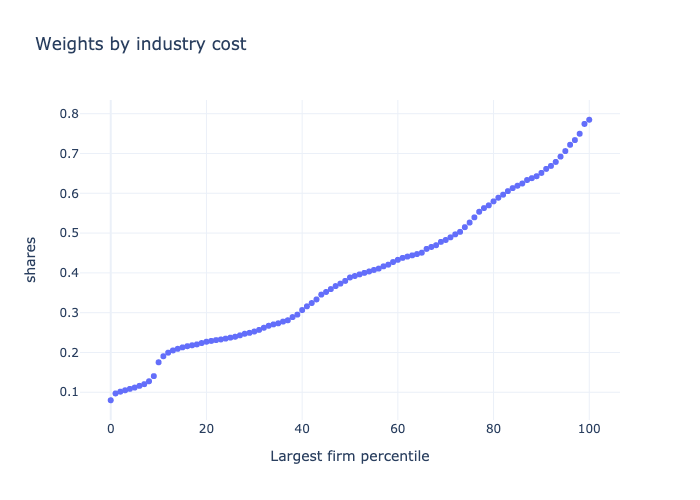
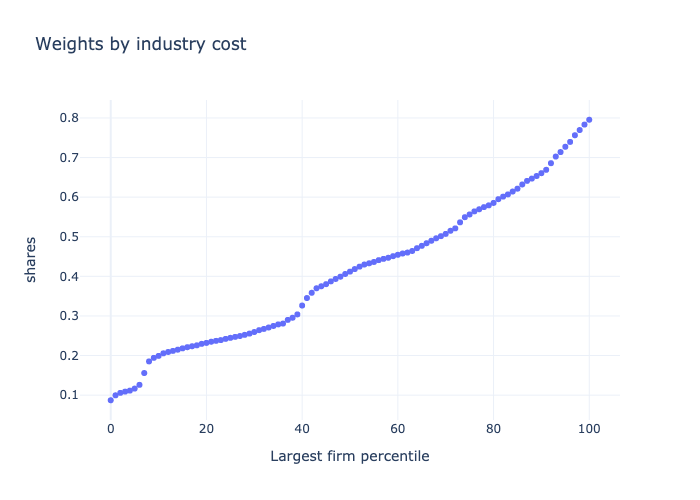
Killer acquisitions implementeed. Delete scrap files.

diff --git a/ps10/killeracq.py b/ps10/killeracq.py
@@ -1,10 +1,8 @@
 # Industry equilibrium with killer acquisitions and not taking w**theta = Y = 1 as given
+# This file assumes there exists an L_supply that can be obtained from np.loadtxt("total_labor.txt"). Running entrygame.py first creates that file. 
 
-# This shouild be merged with entrygame.py (from where Labor supply should come) and industry_eq.py. 
+# TODO: This shouild be merged with industry_eq.py. Functions will need to be more general first. Currently incompatible as industry_eq.py is mostly based on taking W and Y as given whereas this file iterates over W**-theta * Y
 
-# Keep first and last entry from entrydecisions. First is profit for incumbent, last is profit dfor entrant
-# Calucllate expected profits if erntrant enters for icnumbet. This will be comapred to the price
-# Before doing this. IMplement busection seach over pricesd W and Y
 
 import numpy as np
 from scipy.stats import pareto
@@ -12,7 +10,7 @@ from scipy import optimize
 import time
 import scipy as sp
 from prodgrid import gen_prod_grid
-from industry_eq import industry_equilibrium, price_aggregator
+from industry_eq import industry_equilibrium, price_aggregator, get_entry_costs
 from entrygame import find_wage, agg_variables
 import plotly.express as px
 import plotly.io as pio
@@ -20,7 +18,6 @@ pio.templates.default = "plotly_white"
 
 import pandas as pd
 
-import ipdb
 
 def entry_decisions(n, ratio, c_curvature, c_shifter, z_draws, prod_grid, probs, gamma, theta, competition, learning_rate):
 	''' Calculate net benefit to marginal entrant
@@ -103,17 +100,7 @@ def markup_diff(markup_guess, z_draws, gamma, theta, competition):
 
 	return(loss, markups, shares, elas, elas_grad)
 
-def acquire_decision(n, profit_acq, c_curvature, c_shifter, z_draws, prod_grid, probs, W, gamma, theta, Y, competition, learning_rate):
-	''' Find marginal firm that incumbent wants to acquire
-	If the value of acquiring > 0, then acquire this firm and all future entrants. TODO: seems expensive?
-	profit_acq : is the profit of the first incumbent if it chooses to acquire
-	'''
-	# TODO: things have changed in the entry decision function. This will no longer work as intended.
-	price_acq, _, E_profit_entry = entry_decisions(n, ratio, c_curvature, c_shifter, z_draws, prod_grid, probs, W, gamma, theta, Y, competition, learning_rate)
-	acquire_benefit = (profit_acq - E_profit_entry) - price_acq
-	return(acquire_benefit)
-
-def industry_equilibrium(ratio, c_curvature, c_shifter, z_draws, prod_grid, probs, gamma, theta, competition, learning_rate, killer_acquisitions):
+def industry_equilibrium(ratio, c_curvature, c_shifter, z_draws, prod_grid, probs, gamma, theta, competition, learning_rate):
 	''' Simulate an industr, given prodcutivity draws.
 	
 	This implementation does not assume 
@@ -124,20 +111,20 @@ def industry_equilibrium(ratio, c_curvature, c_shifter, z_draws, prod_grid, prob
 	
 	INPUT :
 	ratio : W**(-theta) * Y a guess of what this is. Want supply = demand so find this using bisection. Note, these are aggregates so find them in aggregate equilbirium.
-	killer_acquisitions : Boolean whether killer acquisitions for the first incumbent is allowed.
+	
 	OUTPUT : 
 	'''
  
 	# First stage: Entry decisions
 	# TODO: incumbent needs to make its decision before we do this
 	try:
-		n_incumbents = optimize.bisect(lambda x: entry_decisions(x, ratio, c_curvature, c_shifter, z_draws, prod_grid, probs, gamma, theta, competition, learning_rate), 1, 5000-1, xtol = 0.9)
+		n_incumbents = optimize.bisect(lambda x: entry_decisions(x, ratio, c_curvature, c_shifter, z_draws, prod_grid, probs, gamma, theta, competition, learning_rate), 1, z_draws.size-1, xtol = 0.9)
 
 	except ValueError:
 		high_point = entry_decisions(1, ratio, c_curvature, c_shifter, z_draws, prod_grid, probs, gamma, theta, competition, learning_rate)
 		low_point = entry_decisions(1, ratio, c_curvature, c_shifter, z_draws, prod_grid, probs, gamma, theta, competition, learning_rate)
 		if high_point > 0 and low_point > 0:
-			n_incumbents = 4999
+			n_incumbents = z_draws.size -1
 		if high_point < 0 and low_point < 0:
 			n_incumbents = 1
 		
@@ -145,11 +132,6 @@ def industry_equilibrium(ratio, c_curvature, c_shifter, z_draws, prod_grid, prob
 
 	z_draws = z_draws[:int(marginal_entrant)]
 
-	if killer_acquisitions:
-		profit_acq = _, _, _ = get_profits(W, z_draws[:-1], gamma, theta, Y, competition, learning_rate)
-		marginal_acqusition = optimize.bisect(lambda x: acquire_decision(x, profit_acq, c_curvature, c_shifter, z_draws, prod_grid, probs, W, gamma, theta, Y, competition, learning_rate)[0], 1, marginal_entrant, xtol = 0.9) # TODO: handle cases where it chooses to always or never acquire
-		z_draws = z_draws[:int(marginal_acqusitionz)] # TODO: should I + 1 or -1 here?
-	
 	# Second stage: Static nested CES from lecture 1
 	
 	markups = get_markups(gamma, theta, z_draws, competition)
@@ -167,13 +149,13 @@ def industry_equilibrium(ratio, c_curvature, c_shifter, z_draws, prod_grid, prob
 
 	return(markupj, Ptildej, Zj, int(marginal_entrant), profit_constant_large, share_large)
 
-def agg_mc(ratio, L_supply, c_curvature, c_shifter, z_draws, prod_grid, probs, gamma, theta, competition, learning_rate, path, killer_acquisitions):
+def agg_mc(ratio, L_supply, c_curvature, c_shifter, z_draws, prod_grid, probs, gamma, theta, competition, learning_rate, path):
 	''' Checks aggregate market clearing. 
 	Use only after solving for an initial equilibrium, as it depends on L_supply which is only known after it has been solved for in equilibrium once. 
 	ratio: is the W**(-theta) Y value using which firms decide whether to enter or not. It reduces the state space.
 
 	For ratio = 1 = W = Y, L becomes the same as in Exc1 part b
-	killer_acquisitions : a boolean indicating whether first incumbent is allowed to acquire to kill
+	
 	'''
 	# Industry variables, arrays with one value per industry
 	markups, prices_j, Z_js, marginal_entrants = [], [], [], []
@@ -181,7 +163,7 @@ def agg_mc(ratio, L_supply, c_curvature, c_shifter, z_draws, prod_grid, probs, g
 
 	for industry in range(z_draws.shape[0]):	
 		z_draw = z_draws[industry, :]
-		markupj, P_tildej, Zj, marginal_entrant, profit_large, share_large = industry_equilibrium(ratio, c_curvature, c_shifter, z_draw, prod_grid, probs, gamma, theta, competition, learning_rate, killer_acquisitions) 
+		markupj, P_tildej, Zj, marginal_entrant, profit_large, share_large = industry_equilibrium(ratio, c_curvature, c_shifter, z_draw, prod_grid, probs, gamma, theta, competition, learning_rate) 
 
 		markups.append(markupj)
 		prices_j.append(P_tildej)
@@ -191,11 +173,10 @@ def agg_mc(ratio, L_supply, c_curvature, c_shifter, z_draws, prod_grid, probs, g
 		shares_large.append(share_large)
 	
 	
-	
-	#Lprod, L, W_implied, Y_tilde, Z, Markup, costj = agg_variables(np.array(P_tildej), np.array(Z_js), np.array(markups), theta)
 	P = 1 # Given by problem set
-	Lprod, L, W_implied, Y_tilde, Z, Markup, costj, avg_firms = agg_variables(ratio, P, np.array(P_tildej), np.array(Z_js), np.array(markups), marginal_entrants, theta, c_shifter, c_curvature)
 
+	Lprod, L, W_implied, Y_tilde, Z, Markup, costj, avg_firms = agg_variables(ratio, P, np.array(P_tildej), np.array(Z_js), np.array(markups), marginal_entrants, theta, c_shifter, c_curvature)
+		
 	share_large_avg = np.mean(np.array(shares_large))
 	profit_large_avg = np.mean(np.array(profits_large) * Y_tilde)
 	loss = L - L_supply
@@ -212,19 +193,19 @@ def cost_from_prices(Zj, Pj, P, W):
 	costj = Yj / Zj
 	return(costj)
 
-def agg_equilibrium(L_supply, c_curvature, c_shifter, z_draws, prod_grid, probs, gamma, theta, competition, learning_rate, path, killer_acquisitions):
+def agg_equilibrium(L_supply, c_curvature, c_shifter, z_draws, prod_grid, probs, gamma, theta, competition, learning_rate, path):
 	''' Computes an aggregate equilibrium for the entry game economy. Returns cost weighted variables by each percentile
 
 	# TODO: add case where W=Y = 1
 	'''
 	
-	X = optimize.bisect(lambda x: agg_mc(x, L_supply, c_curvature, c_shifter, z_draws, prod_grid, probs, gamma, theta, competition, learning_rate, path, killer_acquisitions)[0], 1e-1, 1e+1, xtol = 1e-5)
+	X = optimize.bisect(lambda x: agg_mc(x, L_supply, c_curvature, c_shifter, z_draws, prod_grid, probs, gamma, theta, competition, learning_rate, path)[0], 1e-1, 1e+1, xtol = 1e-5)
 	
-	_, markups, prices_j, Z_js, Y, W, avg_firms, profit_large, share_large, P = agg_mc(X, L_supply, c_curvature, c_shifter, z_draws, prod_grid, probs, gamma, theta, competition, learning_rate, path, killer_acquisitions)
+	_, markups, prices_j, Z_js, Y, W, avg_firms, profit_large, share_large, P = agg_mc(X, L_supply, c_curvature, c_shifter, z_draws, prod_grid, probs, gamma, theta, competition, learning_rate, path)
 
 	hh_welfare = get_hh_welfare(W, L_supply, P)
 
-	return(profit_large, share_large, avg_firms, hh_welfare)
+	return(profit_large, share_large, avg_firms, hh_welfare, W, Y, prices_j)
 
 def get_hh_welfare(W, L_supply, P):
 	''' Returns HH welfare
@@ -240,10 +221,11 @@ alpha = 6
 gamma = 10.5
 theta = 1.24
 prod_grid, probs = gen_prod_grid(alpha, gamma)
+z_large = prod_grid[-1]
 
 z_draws = np.repeat(prod_grid[0], 5000-1)
 
-z_draws = np.insert(z_draws, 0, prod_grid[-1])
+z_draws = np.insert(z_draws, 0, z_large)
 z_draws = np.expand_dims(z_draws, 0)
 
 prod_grid = np.expand_dims(prod_grid[0], axis = 0)
@@ -252,10 +234,65 @@ probs = np.expand_dims(1, axis = 0)
 c_curvature = 1
 c_shifter = 2e-7
 L_supply = np.loadtxt("total_labor.txt")
-#L_supply = 0.8665185419497495  # When I allow P to vary (not forcing to 1)
+
 learning_rate = 1
 
-profit_large, share_large, avg_firms, hh_welfare = agg_equilibrium(L_supply, c_curvature, c_shifter, z_draws, prod_grid, probs, gamma, theta, "Bertrand", learning_rate, "figures/scrap", False)
+profit_large, share_large, avg_firms, hh_welfare, W, Y, Pj = agg_equilibrium(L_supply, c_curvature, c_shifter, z_draws, prod_grid, probs, gamma, theta, "Bertrand", learning_rate, "figures/scrap")
+
+f = open("killer_acq.txt", "w")
+f.write("No KA " + "profit_large:" + str(profit_large) + ", Share:" + str(share_large) + ", avg firms" + str(avg_firms) + ", hh welfare: " + str(hh_welfare))
+f.close()
+
+def agg_eq_ka(k, firms_no_ka, profit_no_ka, gamma, theta, c_shifter, c_curvature):
+	''' Computes aggregate equilibrium difference in profits when the initial firm acquires all firms following the kth entrant.
+
+	Acquiring the kth entrant and everyoen afterwards (due to increasing costs to enter and same effect on profit_large as kth entrant) can be both profitable and not profitable.
+
+	This function tells whether it is profitable to acquire everyuione following the kth entrant. 
+
+	A key assumption is that the profit of the future entrants remains at the same constant value. Otherwise, an effect of acquiring a firm is that the future profits of potential entrants increases, and therefore the price for the incumbent. 
+	TODO: should I change Pj to 1? 
+	'''
+	print(k)
+	# Effect on profit_large comes from limiting number of entrants to k.
+	# Everyone after k is acquired as cost of acquiring additional firms decrease while effect on profits is constant. 
+	z_draws_limited = z_draws[:, 0:k]
+
+	profit_large, share_large, avg_firms, hh_welfare, W, Y, Pj = agg_equilibrium(L_supply, c_curvature, c_shifter, z_draws_limited, prod_grid, probs, gamma, theta, "Bertrand", learning_rate, "figures/scrap")
+
+	markup_s = gamma / (gamma - 1)
+	Pj = 1 # TODO: think this normalization should be made as we know P = 1,
+	# And there is only one industry (for problem set), so Pj = 1. 
+	
+	entry_profits = (1 - 1 / markup_s) * (markup_s * W / z_draws[:, k:firms_no_ka])**(1 - gamma) * Pj**(gamma - theta) * Y
+	
+	entry_costs = get_entry_costs(W, c_shifter, np.arange(k+1, firms_no_ka+1), c_curvature)
+
+	acq_price = np.sum(entry_profits - entry_costs)
+
+	net_profit_large = profit_large - acq_price
+	
+	return(profit_no_ka - net_profit_large)
+	
+from scipy.optimize import minimize_scalar
+
+sol = minimize_scalar(lambda x: agg_eq_ka(int(x), int(avg_firms), profit_large, gamma, theta, c_shifter, c_curvature), bounds = (2, avg_firms), method = "bounded", options = {"xatol" : 0.9})
+
+z_draws = np.repeat(prod_grid[0], int(sol.x))
+
+z_draws = np.insert(z_draws, 0, z_large)
+z_draws = np.expand_dims(z_draws, 0)
+
+profit_large, share_large, avg_firms, hh_welfare, W, Y, Pj = agg_equilibrium(L_supply, c_curvature, c_shifter, z_draws, prod_grid, probs, gamma, theta, "Bertrand", learning_rate, "figures/scrap")
+
+f = open("killer_acq.txt", "a")
+f.write("\n KA " + "profit_large:" + str(profit_large) + ", Share:" + str(share_large) + ", avg firms" + str(avg_firms) + ", hh welfare: " + str(hh_welfare))
+f.close()
+
+
+
+
+
 
 
 

diff --git a/ps10/industry_eq.py b/ps10/industry_eq.py
@@ -34,7 +34,7 @@ def get_entry_costs(W, c_shifter, n, c_curvature):
 	'''
 	n is the number of incumbents, so entry cost for marginal entrant uses n+1
 	'''
-	return(W * c_shifter * (n+1) ** c_curvature)
+	return(W * c_shifter * ((n+1) ** c_curvature))
 
 def get_profits(W, z_draws, gamma, theta, Y, competition, learning_rate):
 	''' Calculate a profit vector of size n
